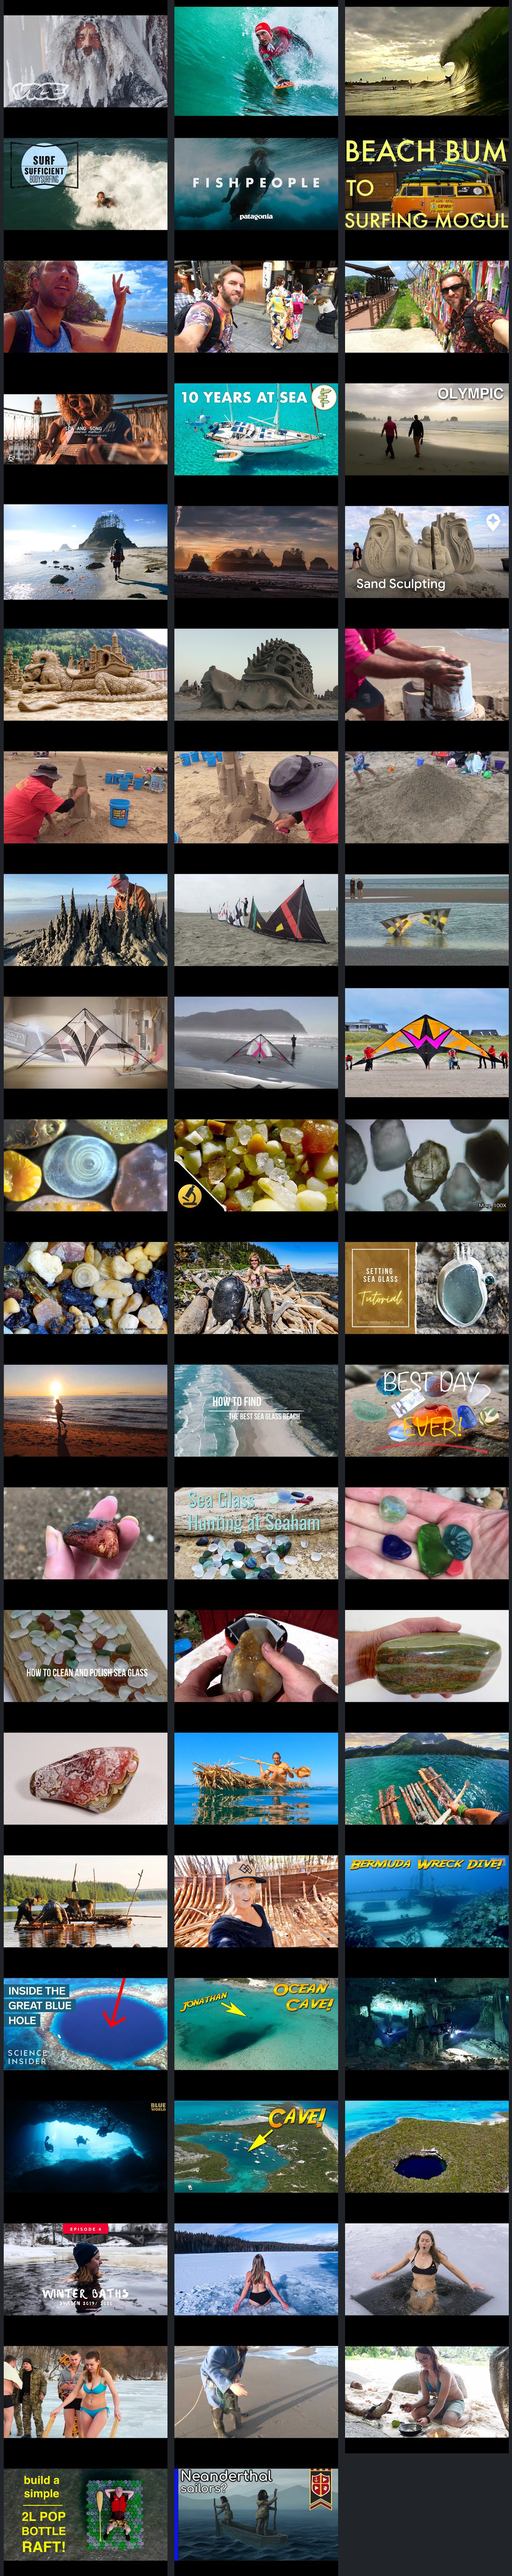
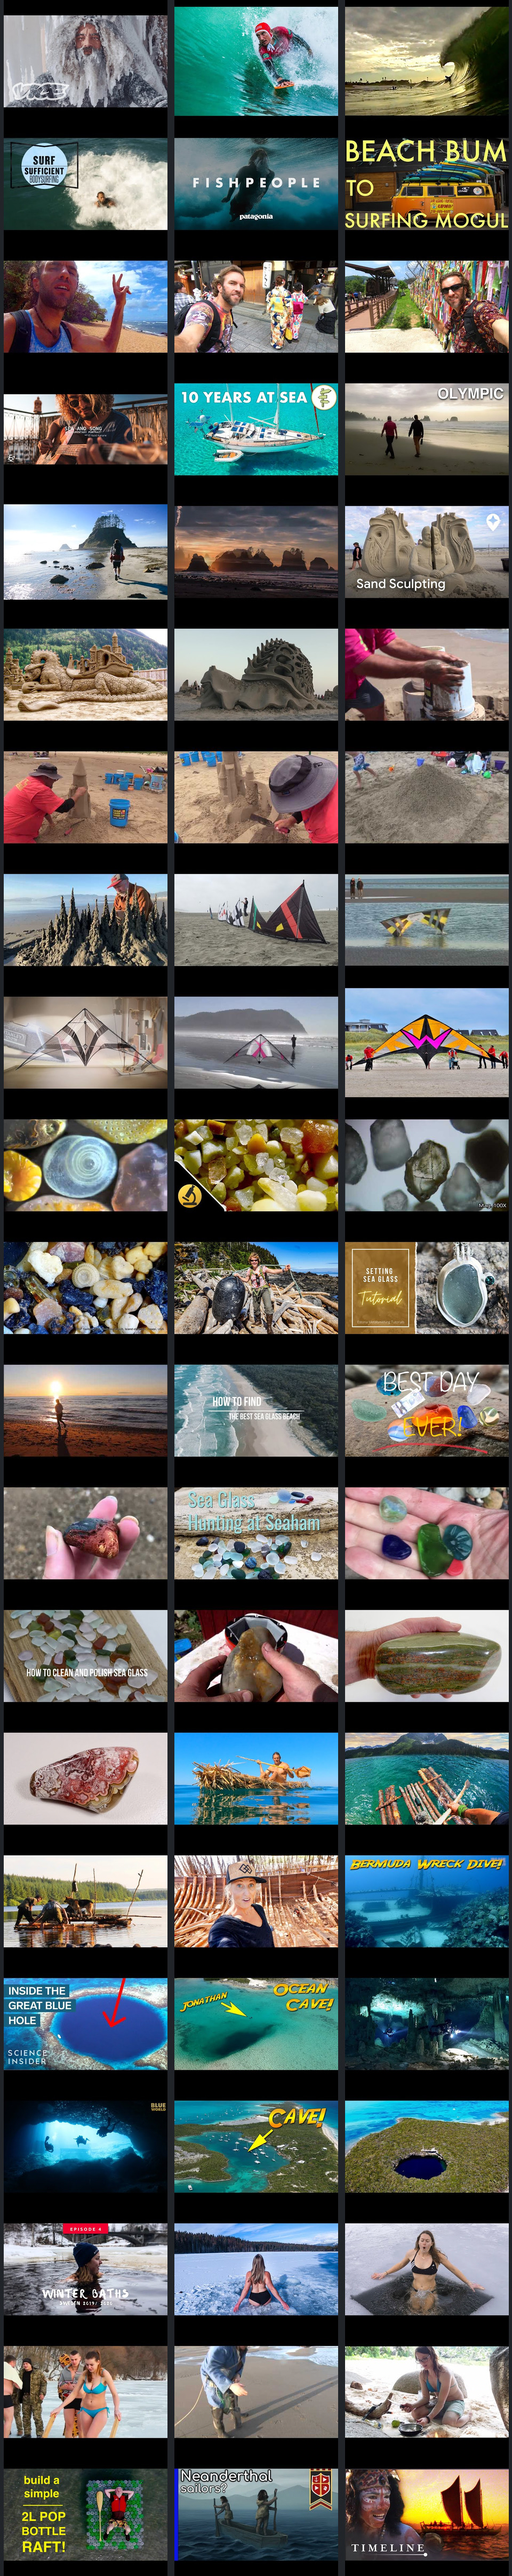
New Revisions

Changed region(s): [[0.6562, 0.9317, 1.0, 1.0]]

diff --git a/westland-warrior-the-beach-bum/cache/bootstrap.html b/westland-warrior-the-beach-bum/cache/bootstrap.html
@@ -432,3 +432,10 @@
     <a href="https://www.youtube.com/watch?v=4dR9YiIMrpM" title="Neanderthals: The First Sailors?" class="btn btn-warning">Play Video</a>
   </div>
 </div>
+<div class="card card-section bg-dark text-warning shadow">
+  <div class="card-header">The First Men to Cross the Oceans</div>
+  <a href="https://www.youtube.com/watch?v=engWBTqeUD0" title="The First Men to Cross the Oceans" alt="The First Men to Cross the Oceans"><img src="/image/yid-engWBTqeUD0.jpg" alt="The First Men to Cross the Oceans" class="card-img"></a>
+  <div class="card-body">
+    <a href="https://www.youtube.com/watch?v=engWBTqeUD0" title="The First Men to Cross the Oceans" class="btn btn-warning">Play Video</a>
+  </div>
+</div>

diff --git a/westland-warrior-the-beach-bum/cache/print.html b/westland-warrior-the-beach-bum/cache/print.html
@@ -184,6 +184,9 @@
 <div class="section yt avoid-break-inside" style="padding-bottom: 2rem;">
   <span>Neanderthals: The First Sailors?<sup>[62]</sup></span>
 </div>
+<div class="section yt avoid-break-inside" style="padding-bottom: 2rem;">
+  <span>The First Men to Cross the Oceans<sup>[63]</sup></span>
+</div>
 <div class="break-after">&nbsp;</div>
 <div>
   <div class="section" style="padding-bottom: 1rem;">References</div>
@@ -249,4 +252,5 @@
   <div>[60]: https://www.youtube.com/watch?v=a4oQsL1Z2kI</div>
   <div>[61]: https://www.youtube.com/watch?v=sy95m1Q6EeE</div>
   <div>[62]: https://www.youtube.com/watch?v=4dR9YiIMrpM</div>
+  <div>[63]: https://www.youtube.com/watch?v=engWBTqeUD0</div>
 </div>

diff --git a/westland-warrior-the-beach-bum/cache/html.html b/westland-warrior-the-beach-bum/cache/html.html
@@ -742,3 +742,15 @@
   </figure>
   <p><a href="https://www.youtube.com/watch?v=4dR9YiIMrpM" title="Neanderthals: The First Sailors?">Play Video</a></p>
 </div>
+<div class="section yt">
+  <header>
+    <h2>The First Men to Cross the Oceans</h2>
+  </header>
+  <figure>
+    <a href="https://www.youtube.com/watch?v=engWBTqeUD0" class="no-tufte-underline" title="The First Men to Cross the Oceans">
+      <img src="/image/yid-engWBTqeUD0.jpg" alt="The First Men to Cross the Oceans">
+    </a>
+    <figcaption>The First Men to Cross the Oceans</figcaption>
+  </figure>
+  <p><a href="https://www.youtube.com/watch?v=engWBTqeUD0" title="The First Men to Cross the Oceans">Play Video</a></p>
+</div>
